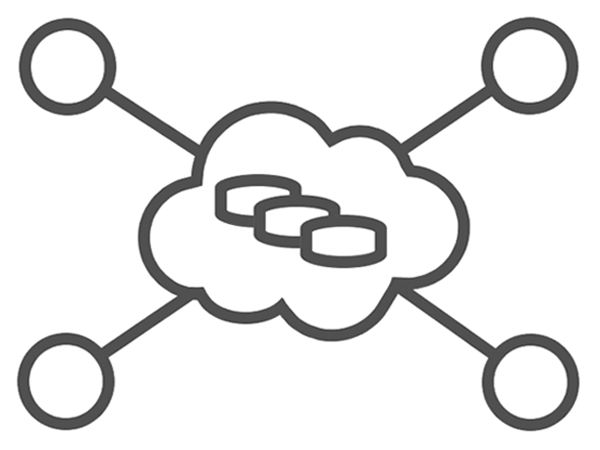
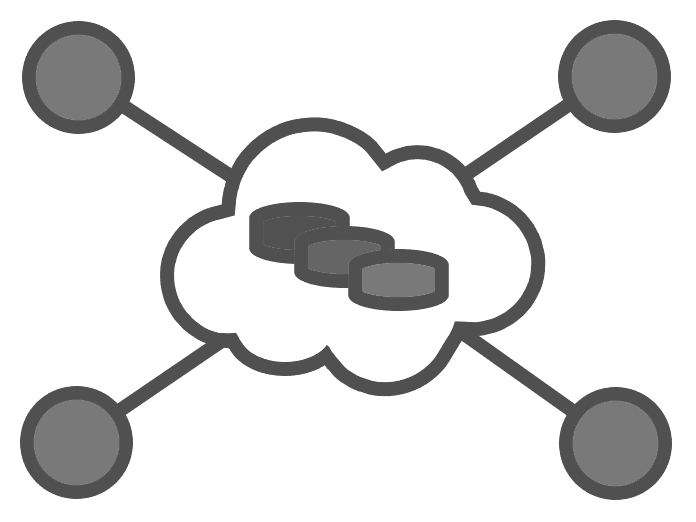
Polished home page and removed about page.

diff --git a/frontend/src/pages/home.vue b/frontend/src/pages/home.vue
@@ -1,9 +1,7 @@
 <template>
-  <div>
-    <div class="home-content-area">
-      <div id="icon">
-        <img style="height: auto; width: 600px; margin: 10px" src="@/assets/img/neurolearn.png">
-      </div>
+  <div style="text-align: center">
+    <div style="margin: 14px auto">
+      <img style="width: 800px" src="@/assets/img/NL.png">
     </div>
     <div class="home-content-area">
       <div style="padding: 20px">
@@ -14,20 +12,20 @@
                 <router-link to="/projects/overview">
                 <img class="feature-icon" src="@/assets/img/projects.png">
                 <a class="feature-title">PROJECTS</a><br/>
-                <a class="feature-item">Multi-Modality Data</a><br/>
-                <a class="feature-item">Various Researches</a><br/>
-                <a class="feature-item">Uniform Pipelines</a><br/>
+                <a class="feature-item">Multi-Modal Data</a><br/>
+                <a class="feature-item">Multi-Site Researches</a><br/>
+                <a class="feature-item">Uniform Workflows</a><br/>
                 </router-link>
               </div>
             </el-col>
             <el-col :span="6">
               <div class="grid-content">
-                <router-link to="/projects/overview">
+                <router-link to="/projects/data">
                 <img class="feature-icon" src="@/assets/img/data.png">
                 <a class="feature-title">DATA</a><br/>
-                <a class="feature-item">Share & Collaboration</a><br/>
-                <a class="feature-item">Stored on Cloud</a><br/>
-                <a class="feature-item">Easy Access</a><br/>
+                <a class="feature-item">Collaborative Sharing</a><br/>
+                <a class="feature-item">Storage on Cloud</a><br/>
+                <a class="feature-item">Efficient Management</a><br/>
                 </router-link>
               </div>
             </el-col>
@@ -44,10 +42,10 @@
             </el-col>
             <el-col :span="6">
               <div class="grid-content">
-                <router-link to="/analysis/viewer">
+                <router-link to="/analysis/submissions">
                 <img class="feature-icon" src="@/assets/img/reports.png">
                 <a class="feature-title">REPORTS</a><br/>
-                <a class="feature-item">Abundant Plots</a><br/>
+                <a class="feature-item">Intuitive Plots</a><br/>
                 <a class="feature-item">Sufficient Metrics</a><br/>
                 <a class="feature-item">Detailed Illustration</a><br/>
                 </router-link>
@@ -55,14 +53,22 @@
             </el-col>
           </el-row>
         </div>
-        <div>
-          <h2 style="text-align: center; font-family: Arial; font-weight: 150; font-size: 30px; color: #282828">What is it <strong style="color: #00CCFF; text-shadow:0.5px 0.5px 0.5px #282828;">capable</strong> of?</h2>
+      </div>
+    </div>
+    <div style="text-align: center">
+      <div style="margin: 14px auto; padding:14px; width: 772px; background-color: #FFFFFF; color: #282828; text-align: center">
+        <div style="text-align: left; width: 700px; margin: 0 auto; font-family: 'Times New Roman', Times, serif; font-size: 18px">
+          <h1>About NEURO-LEARN</h1>
         </div>
-        <div id="framework">
-          <img style="height: auto; width: 700px; margin: 10px" src="@/assets/img/neurolearn_framework.png">
+        <hr style="width: 750px" />
+        <div style="text-align: left; width: 700px; margin: 0 auto; font-family: 'Times New Roman', Times, serif; font-size: 18px">
+          <p><a style="color: #00CCFF; font-weight: bold" href="https://github.com/Raniac/NEURO-LEARN/" target="_blank">NEURO-LEARN</a> is a decentralized solution for pattern analysis of neuroimaging data. Its decentralization scheme of data and workflow management consists of four parts: projects, data, analysis and reports. As data preparation workflows defined in projects reduce the high dimensionality of neuroimaging data by decentralized computation, collaborative sharing of data and analysis workflows along with visualization of generated reports on the Web enlarge the sample size and facilitate the validity, reliability, and reproducibility of pattern analyses. Incorporating this scheme, NEURO-LEARN provides an easy-to-use web platform for the decentralization of pattern analysis of neuroimaging data.</p>
+          <p>Main functionalities of NEURO-LEARN was coded by Bingye Lei, who also wrote the first version of wiki. Should you encouter any problems when using NEURO-LEARN, please feel free to file an issue or contact leibingye@outlook.com.</p>
+          <p>The code of NEURO-LEARN is distributed under Apache License 2.0. If you find our work useful and want to publish a study using NEURO-LEARN, we would appreciate it if you cited our paper.</p>
+          <p>More information about NEURO-LEARN can be found in <a style="color: #00CCFF; font-weight: bold" href="https://github.com/Raniac/NEURO-LEARN/wiki/" target="_blank">NEURO-LEARN Documentation</a>.</p>
         </div>
         <div>
-          <hr />
+          <hr style="width: 750px" />
             <p style="font-size: 14px; color: #505050">This application is part of NEURO-LEARN developed by Raniac from South China University of Technology.</p>
         </div>
       </div>
@@ -77,71 +83,72 @@ export default {
 </script>
 
 <style lang="scss">
-.home-content-area {
-  margin: 14px;
-  background-color: #FFFFFF;
-  .el-row {
-    margin-bottom: 20px;
-    &:last-child {
-      margin-bottom: 0;
+  .home-content-area {
+    margin: 14px auto;
+    width: 800px;
+    background-color: #FFFFFF;
+    .el-row {
+      margin-bottom: 20px;
+      &:last-child {
+        margin-bottom: 0;
+      }
     }
-  }
-  .el-col {
-    border:1px solid #C8C8C8;
-    border-style:none none none solid;
-    &:last-child {
+    .el-col {
       border:1px solid #C8C8C8;
-      border-style:none solid;
+      border-style:none none none solid;
+      &:last-child {
+        border:1px solid #C8C8C8;
+        border-style:none solid;
+      }
+    }
+    .grid-content {
+      padding: 0px 14px;
+      min-height: 100px;
+      .feature-icon {
+        float: left;
+        padding-left: 20px;
+        padding-bottom: 8px;
+        height: 90px;
+        width: 120px;
+      }
+      .feature-title {
+        color: #282828;
+        font-size: 20px;
+        padding-left: 15px;
+      }
+      .feature-item {
+        color: #505050;
+        font-size: 14px;
+        padding-left: 15px;
+      }
     }
   }
-  .grid-content {
-    padding: 0px 14px;
-    min-height: 100px;
-    .feature-icon {
-      float: left;
-      padding-left: 20px;
-      padding-bottom: 8px;
-      height: 90px;
-      width: 120px;
-    }
-    .feature-title {
-      color: #282828;
-      font-size: 20px;
-      padding-left: 15px;
-    }
-    .feature-item {
-      color: #505050;
-      font-size: 14px;
-      padding-left: 15px;
-    }
+  // #icon {
+  //   text-align: center;
+  //   -webkit-background-size: 20px 20px;
+  //   -moz-background-size: 20px 20px;
+  //   background-size: 20px 20px;
+  //   background-color: #00CCFF;
+  //   background-image: -webkit-gradient(linear, 0 100%, 100% 0,
+  //                             color-stop(.25, rgba(255, 255, 255, .2)), color-stop(.25, transparent),
+  //                             color-stop(.5, transparent), color-stop(.5, rgba(255, 255, 255, .2)),
+  //                             color-stop(.75, rgba(255, 255, 255, .2)), color-stop(.75, transparent),
+  //                             to(transparent));
+  //   background-image: -moz-linear-gradient(45deg, rgba(255, 255, 255, .2) 25%, transparent 25%,
+  //                         transparent 50%, rgba(255, 255, 255, .2) 50%, rgba(255, 255, 255, .2) 75%,
+  //                         transparent 75%, transparent);
+  //   background-image: -o-linear-gradient(45deg, rgba(255, 255, 255, .2) 25%, transparent 25%,
+  //                         transparent 50%, rgba(255, 255, 255, .2) 50%, rgba(255, 255, 255, .2) 75%,
+  //                         transparent 75%, transparent);
+  //   background-image: linear-gradient(45deg, rgba(255, 255, 255, .2) 25%, transparent 25%,
+  //                         transparent 50%, rgba(255, 255, 255, .2) 50%, rgba(255, 255, 255, .2) 75%,
+  //                         transparent 75%, transparent);
+  // }
+  #blue-title {
+    color: #00CCFF;
+    text-shadow:1px 1px 1px #282828;
   }
-}
-#icon {
-  text-align: center;
-  -webkit-background-size: 20px 20px;
-  -moz-background-size: 20px 20px;
-  background-size: 20px 20px;
-  background-color: #00CCFF;
-  background-image: -webkit-gradient(linear, 0 100%, 100% 0,
-                            color-stop(.25, rgba(255, 255, 255, .2)), color-stop(.25, transparent),
-                            color-stop(.5, transparent), color-stop(.5, rgba(255, 255, 255, .2)),
-                            color-stop(.75, rgba(255, 255, 255, .2)), color-stop(.75, transparent),
-                            to(transparent));
-  background-image: -moz-linear-gradient(45deg, rgba(255, 255, 255, .2) 25%, transparent 25%,
-                        transparent 50%, rgba(255, 255, 255, .2) 50%, rgba(255, 255, 255, .2) 75%,
-                        transparent 75%, transparent);
-  background-image: -o-linear-gradient(45deg, rgba(255, 255, 255, .2) 25%, transparent 25%,
-                        transparent 50%, rgba(255, 255, 255, .2) 50%, rgba(255, 255, 255, .2) 75%,
-                        transparent 75%, transparent);
-  background-image: linear-gradient(45deg, rgba(255, 255, 255, .2) 25%, transparent 25%,
-                        transparent 50%, rgba(255, 255, 255, .2) 50%, rgba(255, 255, 255, .2) 75%,
-                        transparent 75%, transparent);
-}
-#blue-title {
-  color: #00CCFF;
-  text-shadow:1px 1px 1px #282828;
-}
-#framework {
-  text-align: center;
-}
+  #framework {
+    text-align: center;
+  }
 </style>

diff --git a/frontend/src/pages/about.vue b/frontend/src/pages/about.vue
@@ -1,13 +1,15 @@
 <template>
-    <div>
-      <div style="margin: 14px; padding:14px; background-color: #FFFFFF; color: #282828; text-align: center">
-        <img style="height: auto; width: 700px" src="@/assets/img/neurolearn_v0314.png">
-        <hr />
+    <div style="text-align: center">
+      <div style="margin: 14px auto; padding:14px; width: 772px; background-color: #FFFFFF; color: #282828; text-align: center">
         <div style="text-align: left; width: 700px; margin: 0 auto; font-family: 'Times New Roman', Times, serif; font-size: 18px">
-          <p><a style="color: #3399FF; font-weight: bold" href="https://github.com/Raniac/NEURO-LEARN/" target="_blank">NEURO-LEARN</a> is a decentralized solution for pattern analysis of neuroimaging data. Its decentralization scheme of data and workflow management consists of four parts: projects, data, analysis and reports. As data preparation workflows defined in projects reduce the high dimensionality of neuroimaging data by decentralized computation, collaborative sharing of data and analysis workflows along with visualization of generated reports on the Web enlarge the sample size and facilitate the validity, reliability, and reproducibility of pattern analyses. Incorporating this scheme, NEURO-LEARN provides an easy-to-use web platform for the decentralization of pattern analysis of neuroimaging data.</p>
+          <h1>About NEURO-LEARN</h1>
+        </div>
+        <hr style="width: 750px" />
+        <div style="text-align: left; width: 700px; margin: 0 auto; font-family: 'Times New Roman', Times, serif; font-size: 18px">
+          <p><a style="color: #00CCFF; font-weight: bold" href="https://github.com/Raniac/NEURO-LEARN/" target="_blank">NEURO-LEARN</a> is a decentralized solution for pattern analysis of neuroimaging data. Its decentralization scheme of data and workflow management consists of four parts: projects, data, analysis and reports. As data preparation workflows defined in projects reduce the high dimensionality of neuroimaging data by decentralized computation, collaborative sharing of data and analysis workflows along with visualization of generated reports on the Web enlarge the sample size and facilitate the validity, reliability, and reproducibility of pattern analyses. Incorporating this scheme, NEURO-LEARN provides an easy-to-use web platform for the decentralization of pattern analysis of neuroimaging data.</p>
           <p>Main functionalities of NEURO-LEARN was coded by Bingye Lei, who also wrote the first version of wiki. Should you encouter any problems when using NEURO-LEARN, please feel free to file an issue or contact leibingye@outlook.com.</p>
           <p>The code of NEURO-LEARN is distributed under Apache License 2.0. If you find our work useful and want to publish a study using NEURO-LEARN, we would appreciate it if you cited our paper.</p>
-          <p>More information about NEURO-LEARN can be found in <a style="color: #3399FF; font-weight: bold" href="https://github.com/Raniac/NEURO-LEARN/wiki/" target="_blank">NEURO-LEARN Documentation</a>.</p>
+          <p>More information about NEURO-LEARN can be found in <a style="color: #00CCFF; font-weight: bold" href="https://github.com/Raniac/NEURO-LEARN/wiki/" target="_blank">NEURO-LEARN Documentation</a>.</p>
         </div>
       </div>
     </div>

diff --git a/frontend/src/components/common/NavMenu.vue b/frontend/src/components/common/NavMenu.vue
@@ -1,12 +1,12 @@
 <template>
   <div>
-    <el-menu default-active="1" id="nav-menu">
+    <el-menu default-active="1" id="nav-menu" :default-openeds="['2', '3']">
       <div class="logo">
         <router-link to="/home" class="nav-title">
           NEURO-LEARN
         </router-link>
       </div>
-      <el-menu-item index="1"><router-link to="/profile" class="nav-link"><i class="el-icon-notebook-2"></i> Profile</router-link></el-menu-item>
+      <!-- <el-menu-item index="1"><router-link to="/profile" class="nav-link"><i class="el-icon-notebook-2"></i> Profile</router-link></el-menu-item> -->
       <el-submenu index="2">
         <template slot="title">
           <div>
@@ -39,7 +39,7 @@
         <el-menu-item index="3-3"><router-link to="/analysis/submissions" class="nav-link"><i class="el-icon-document-copy"></i> Submissions</router-link></el-menu-item>
         <el-menu-item index="3-4"><router-link to="/analysis/viewer" class="nav-link"><i class="el-icon-view"></i> Viewer</router-link></el-menu-item>
       </el-submenu>
-      <el-menu-item index="4"><router-link to="/about" class="nav-link"><i class="el-icon-info"></i> About</router-link></el-menu-item>
+      <!-- <el-menu-item index="4"><router-link to="/about" class="nav-link"><i class="el-icon-info"></i> About</router-link></el-menu-item> -->
       <!-- <el-menu-item index="5"><router-link to="/test" class="nav-link"><i class="el-icon-loading"></i> Test</router-link></el-menu-item> -->
     </el-menu>
   </div>
